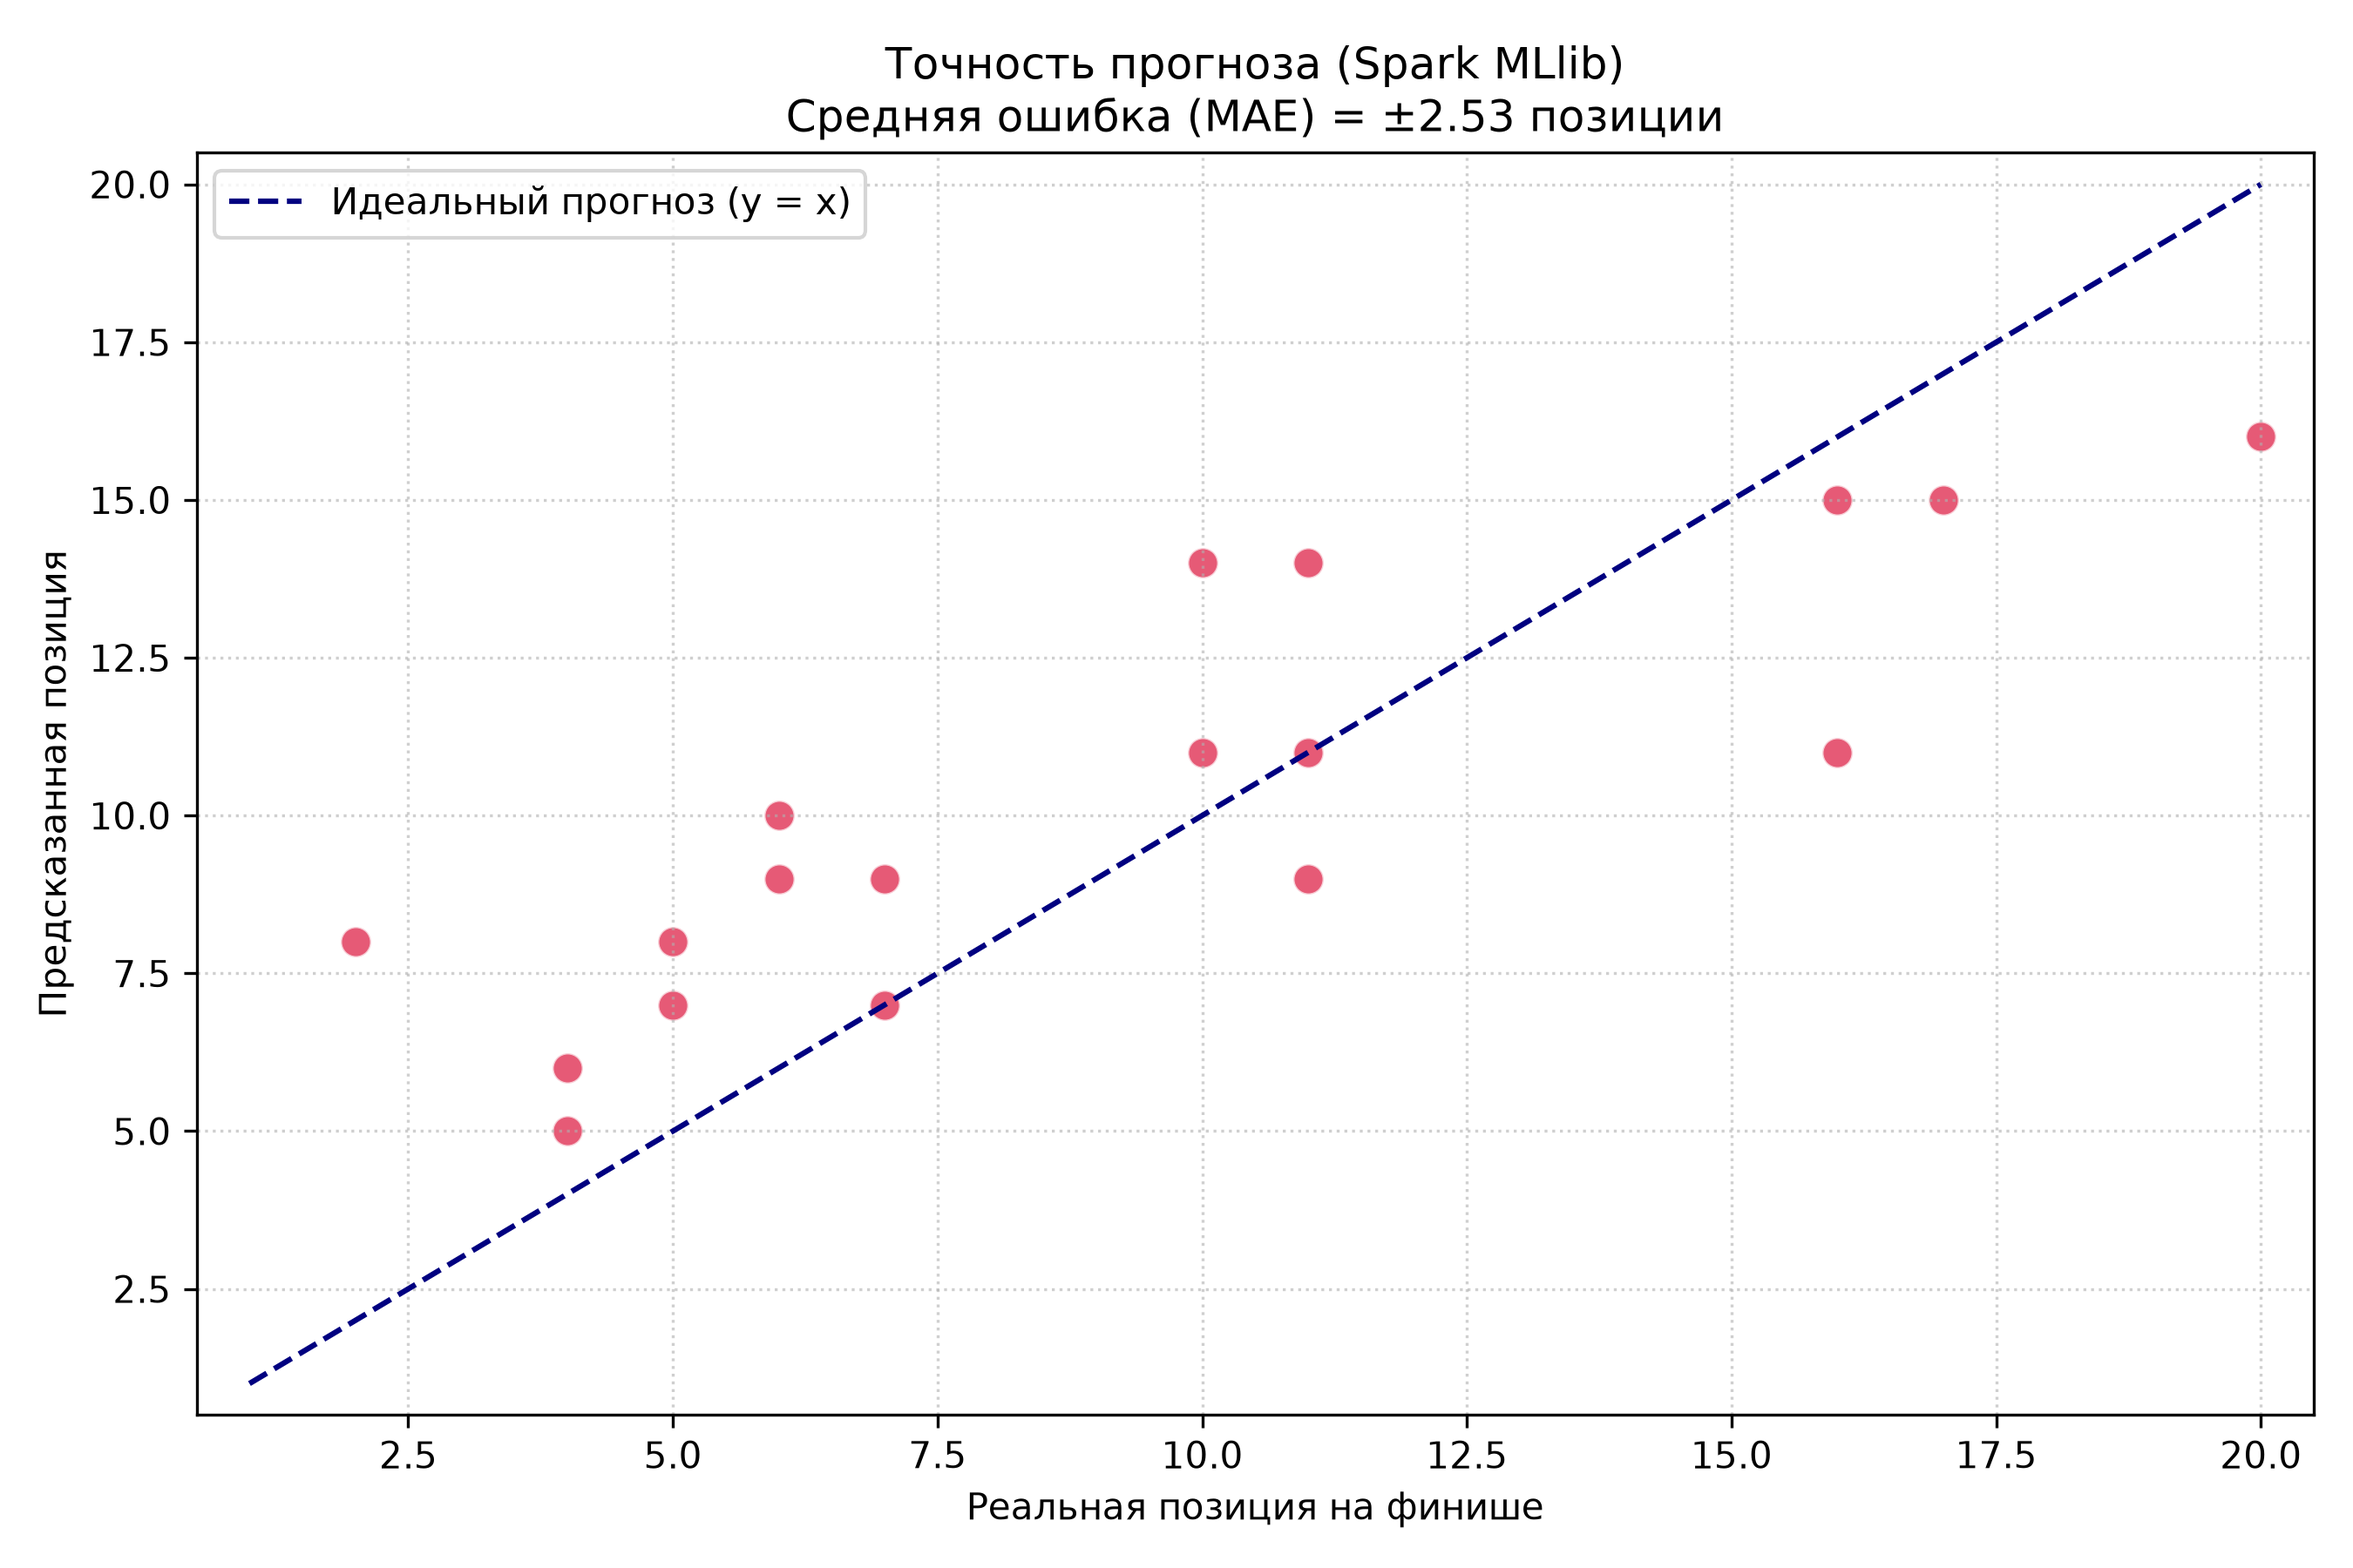
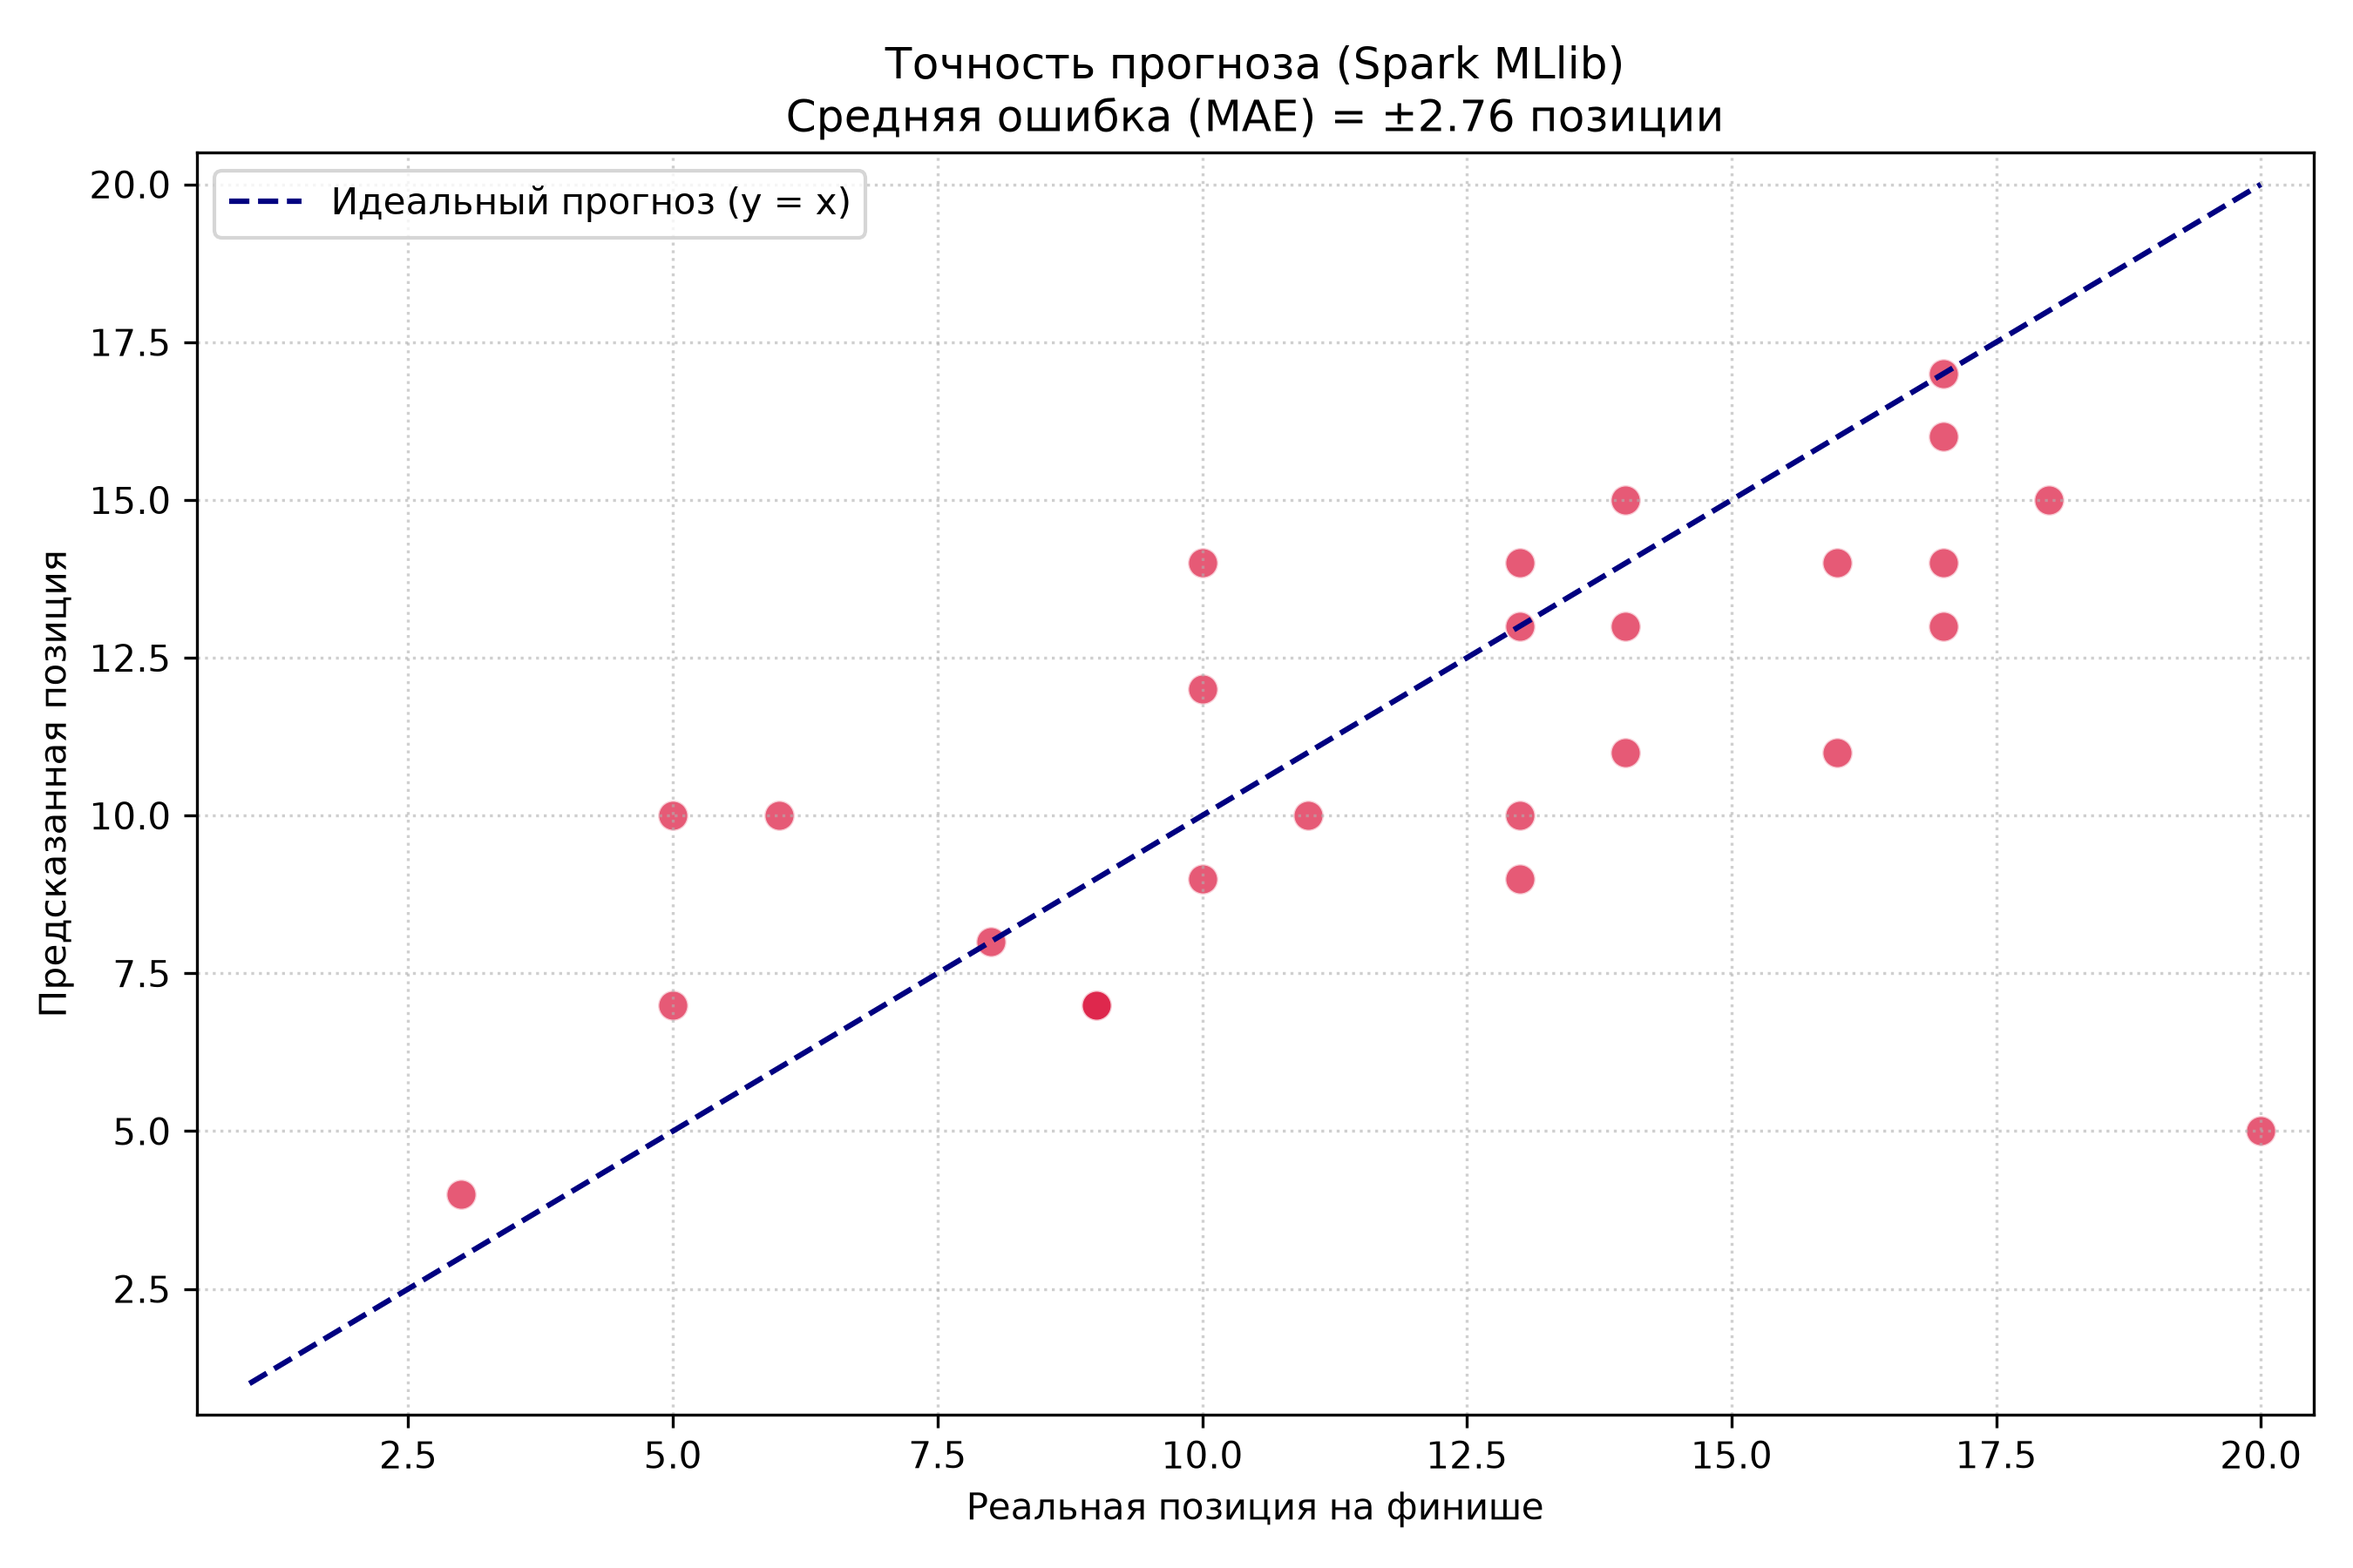
feat: added new insides for task 5

diff --git a/insides.md b/insides.md
@@ -1,0 +1,60 @@
+# Инсайты
+
+Инсайт - это не описание графика, а цепочка из четырёх звеньев:
+
+наблюдение → доказательство (цифра) → почему так → что с этим делать
+
+# Задача 1
+
+1. Порядок деградации соответствует физике
++ SOFT 0.123 > MEDIUM 0.069 > HARD 0.056 с/круг.
++ SOFT теряет темп в ~2 раза быстрее MEDIUM и HARD.
+Вывод: мягкая резина даёт скорость в начале стинта, но платит износом. Ей выгодны короткие стинты.
+
+2. Падение скорости согласуется с потерей времени
++ Потеря скорости: SOFT -0.18, MEDIUM -0.02, HARD -0.01 км/ч за круг.
++ Оценка: 0.123 с на круге ~90 с - это ~0.14%, при ~200 км/ч получается ~0.27 км/ч. Порядок величины тот же.
+Вывод: две независимые метрики подтверждают друг друга, значит расчёт деградации можно считать адекватным.
+
+3. SOFT - самый непредсказуемый состав
++ На boxplot у SOFT самый широкий ящик и усы: от -0.06 до 0.34 с/круг.
++ HARD компактный: почти все значения в диапазоне 0.03-0.09.
+Вывод: у SOFT результат сильнее зависит от стиля пилотирования, трафика и трассы, поэтому им рискованнее планировать стратегию.
+
+4. Один и тот же состав на одной гонке ведёт себя по-разному
++ Bahrain, SOFT, первый стинт: ALB 0.288 против BOT 0.061 с/круг.
+Вывод: деградация зависит не только от резины, но и от пилота, трафика и трактовки стинта. Это хороший задел для сравнения пилотов.
+
+5. Трассы нельзя сравнивать на одном графике
++ На графике времени круга три кластера: ~100-105 (Bahrain), ~85-90 (Monza), ~80-85 (Monaco).
++ На графике скорости это видно по уровням 240, 195 и 150 км/ч.
+Вывод: трасса определяет абсолютный темп намного сильнее, чем резина. Корректно сравнивать только дельты внутри стинта или нормировать по трассе.
+
+# Задача 5
+
+1. Телеметрия педалей на первых кругах бесполезна для прогноза
++ Базовые показатели (процент газа/тормоза, ранняя средняя скорость) почти не влияют на работу модели.
++ На графике важности веса PctFullThrottle, PctBraking и AvgEarlySpeed минимальны и стремятся к нулю (< 0.05).
+Вывод: на старте гонки пилоты едут в плотном трафике на тяжелых (заправленных) машинах, экономя ресурс, поэтому сырая телеметрия педалей не отражает реальный потенциал болида. Вместо них нужно генерировать тактические фичи (дельта до лидера, езда в зоне DRS).
+
+
+2. Сила команды важнее стартовой позиции
++ Принадлежность к определенной команде предсказывает итоговый финиш точнее, чем место на стартовой решетке.
++ Вес коэффициента Team_idx (~0.60) на графике важности в полтора раза перевешивает вес GridPosition (~0.40).
+Вывод: на дистанции всей гонки гоночный темп топ-команды и гибкая стратегия неизбежно компенсируют плохую квалификацию. В модели стоит использовать исторический "индекс силы команды", а не только полагаться на позицию на старте.
+
+3. Линейная регрессия слепа к форс-мажорам и сходам
++ Модель идеально предсказывает штатные гонки, но выдает гигантские ошибки при авариях или технических сходах.
++ Леклер в Австрии: старт 12, прогноз 8, финиш 8 (ошибка 0). Но Боттас в Катаре: старт 6, прогноз 5, финиш 20 (ошибка 15). Это раздувает общую MAE до ±2.76 позиций.
+Вывод: линейный алгоритм предполагает нормальное развитие гонки и не может предвидеть прокол или поломку на 50-м круге. Для реального применения нужен двухэтапный пайплайн: сначала классификатор вероятности схода, затем регрессия для "выживших".
+
+
+4. Стартовый состав шин — главный управляемый фактор
++ Из всех переменных, которые команда может менять перед стартом, состав резины сильнее всего влияет на прогноз.
++ Признак Compound_idx занимает 4-е место по важности (~0.25), уверенно обходя температуру трассы, воздуха и ранний гоночный темп.
+Вывод: выбор жесткости резины на старт жестко диктует всю дальнейшую стратегию (один или два пит-стопа). Чтобы модель лучше понимала контекст, вместо простого индекса шин ей стоит передавать маркер "отклонение стратегии от большинства пелотона".
+
+5. Дождь полностью ломает стандартные паттерны
++ Наличие осадков является абсолютным доминантом в прогнозе, перекрывающим влияние техники.
++ Абсолютный вес фактора Rainfall (~1.35) огромно выделяется на графике и более чем в 2 раза превышает вес команды (Team_idx).
+Вывод: в дождевых условиях разница в прижимной силе и мощности нивелируется, а уровень хаоса (машины безопасности, развороты) возрастает. Дождевые гонки нужно прогнозировать иначе: либо обучать под них отдельную модель, либо добавлять фичу "навык пилота в дождь".
